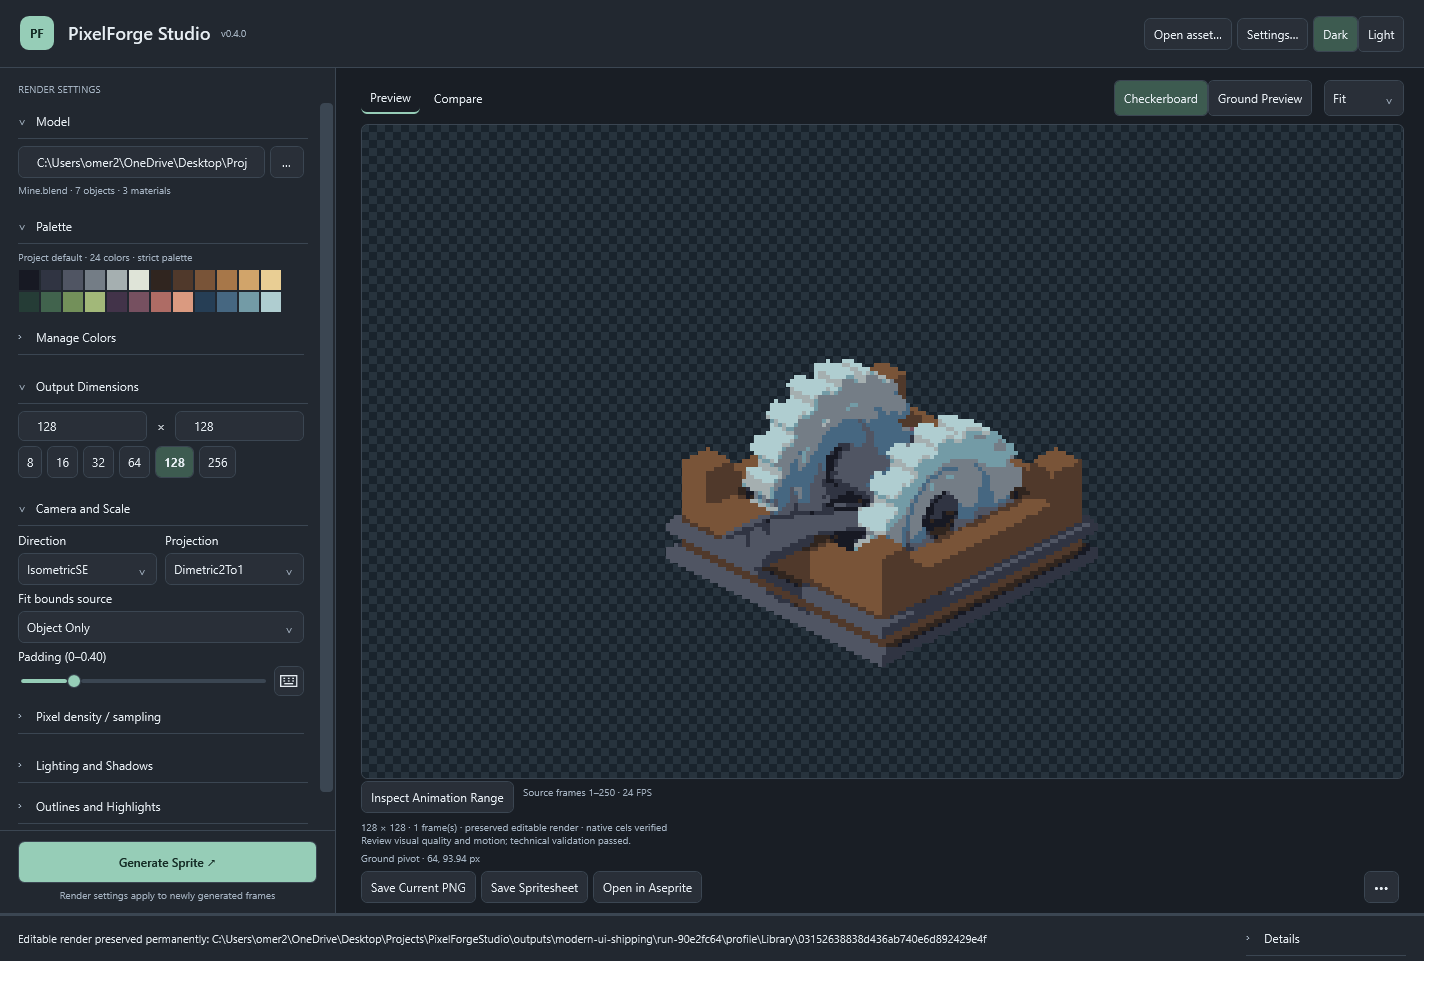
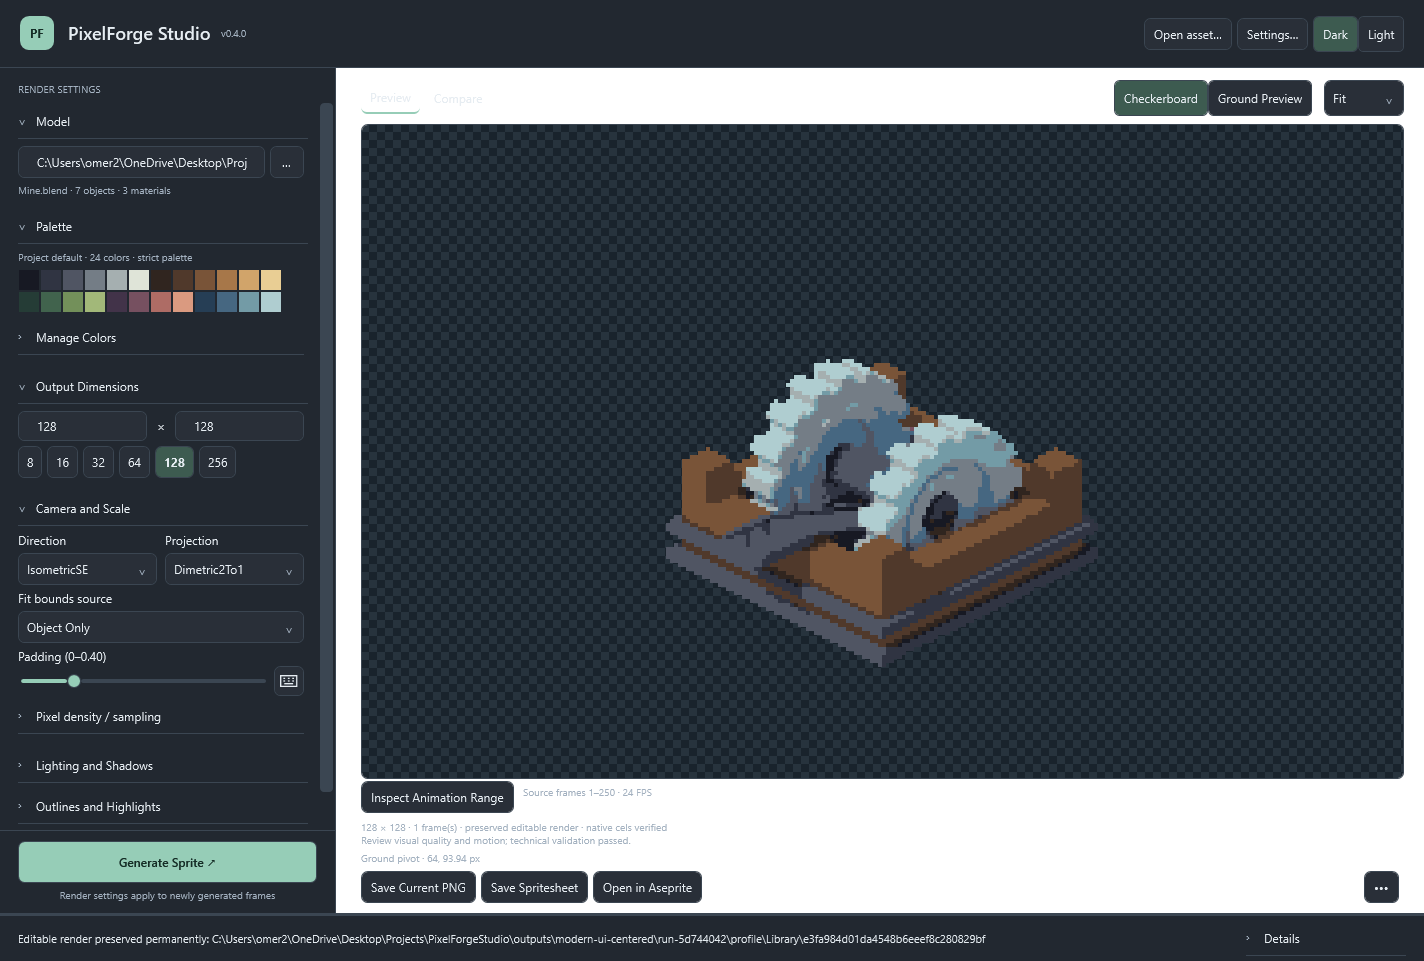
Keep the workspace fully visible at startup

Changed region(s): [[0.0, 0.0, 1.0, 1.0], [0.4635, 0.3434, 0.7725, 0.6868], [0.0927, 0.5307, 0.1854, 0.6243]]

diff --git a/src/PixelForge.Desktop/MainWindow.xaml b/src/PixelForge.Desktop/MainWindow.xaml
@@ -1,4 +1,4 @@
-<Window x:Class="PixelForge.Desktop.MainWindow" xmlns="http://schemas.microsoft.com/winfx/2006/xaml/presentation" xmlns:x="http://schemas.microsoft.com/winfx/2006/xaml" xmlns:local="clr-namespace:PixelForge.Desktop" Title="PixelForge Studio v0.4.0" Width="1440" Height="1000" MinWidth="1000" MinHeight="740" Background="{DynamicResource Window}" Foreground="{DynamicResource Text}" FontFamily="Segoe UI" UseLayoutRounding="True">
+<Window x:Class="PixelForge.Desktop.MainWindow" xmlns="http://schemas.microsoft.com/winfx/2006/xaml/presentation" xmlns:x="http://schemas.microsoft.com/winfx/2006/xaml" xmlns:local="clr-namespace:PixelForge.Desktop" Title="PixelForge Studio v0.4.0" WindowStartupLocation="CenterScreen" Width="1440" Height="1000" MinWidth="1000" MinHeight="740" Background="{DynamicResource Window}" Foreground="{DynamicResource Text}" FontFamily="Segoe UI" UseLayoutRounding="True">
   <Window.Resources>
     <BooleanToVisibilityConverter x:Key="VisibleWhen" />
   </Window.Resources>

diff --git a/src/PixelForge.Checks/ModernUiChecks.cs b/src/PixelForge.Checks/ModernUiChecks.cs
@@ -48,11 +48,18 @@ internal static class ModernUiChecks
         void Capture(string name)
         {
             window.UpdateLayout();
-            var image = new RenderTargetBitmap((int)window.ActualWidth, (int)window.ActualHeight, 96, 96, PixelFormats.Pbgra32);
-            image.Render(window); var encoder = new PngBitmapEncoder(); encoder.Frames.Add(BitmapFrame.Create(image));
+            var surface = (FrameworkElement)window.Content;
+            var dpi = VisualTreeHelper.GetDpi(surface);
+            var image = new RenderTargetBitmap((int)Math.Ceiling(surface.ActualWidth * dpi.DpiScaleX),
+                (int)Math.Ceiling(surface.ActualHeight * dpi.DpiScaleY), dpi.PixelsPerInchX, dpi.PixelsPerInchY, PixelFormats.Pbgra32);
+            image.Render(surface); var encoder = new PngBitmapEncoder(); encoder.Frames.Add(BitmapFrame.Create(image));
             using var stream = File.Create(Path.Combine(root, name + ".png")); encoder.Save(stream);
         }
         string Settings() => JsonSerializer.Serialize((AssetSettings)Call("ReadSettings")!);
+        await Layout();
+        var area = SystemParameters.WorkArea;
+        Check(window.Left >= area.Left && window.Top >= area.Top && window.Top + window.ActualHeight <= area.Bottom + 1,
+            "startup centers the complete workspace within the available work area");
         Check(Find<StackPanel>("SettingsPanel").Children.OfType<Expander>().Count() == 7, "all seven settings sections retained");
         Find<TextBox>("ModelPath").Text = model;
         var before = Settings();

diff --git a/src/PixelForge.Desktop/PresentationControls.cs b/src/PixelForge.Desktop/PresentationControls.cs
@@ -14,6 +14,9 @@ public partial class MainWindow
 
     private void InitializePresentation()
     {
+        // Avoid Windows' cascading placement putting the tall workspace off screen.
+        Width = Math.Max(MinWidth, Math.Min(Width, SystemParameters.WorkArea.Width));
+        Height = Math.Max(MinHeight, Math.Min(Height, SystemParameters.WorkArea.Height));
         SetChecker();
         DpiChanged += (_, _) => UpdateZoom();
         foreach (var section in SettingsSections())

diff --git a/docs/release/v0.4.0-verification.md b/docs/release/v0.4.0-verification.md
@@ -7,7 +7,7 @@ Verified locally on Windows x64 using .NET SDK 10.0.404, installed Blender 5.3.0
 | Suite | Checks |
 |---|---:|
 | `./Build.ps1 -Check` base regression | 25 |
-| Actual WPF UI / static and 12-frame animation workflow | 36 |
+| Actual WPF UI / static and 12-frame animation workflow | 37 |
 | Existing session, palette, confirmation and directory workflow | 43 |
 | Existing native timing/manual-edit preservation | 69 |
 | Zero-padding, native compositing and fixed warning viewport | 43 |
@@ -30,3 +30,5 @@ Technical validity is not artistic approval. Unsupported Blender shader/instance
 The self-contained `artifacts/current/PixelForge Studio.exe` was launched with an isolated profile. Its actual UI reopened the saved mine without Blender, switched Dark to Light, saved PNG and spritesheet PNG/JSON through native dialogs, opened the native document in Aseprite, and dragged the read-only comparison divider from 50% to approximately 78%. Exported frame/sheet file hashes match the saved source PNGs exactly. PNG and sheet dialog directories persisted independently, and Light theme and model settings survived an executable restart. The native document was inspected in Aseprite and closed without edits.
 
 `./Build.ps1 -Check -Publish` succeeded. One restricted-network attempt reported an unavailable NuGet audit endpoint; the final build with normal network access completed without warnings. No third-party application dependencies were added. A clean-machine installation and physical high-DPI display remain untested.
+
+Startup placement is centered and capped to the available work area. The ZIP smoke test exposed Windows' off-screen cascading placement; a dedicated actual-WPF bounds check now verifies that the complete workspace is visible at startup.

diff --git a/CHANGELOG.md b/CHANGELOG.md
@@ -9,6 +9,7 @@ Meaningful development changes, newest first. Historical entries follow saved ve
 - Moved playback FPS, duration, timeline and transport together; secondary exports are available from the preview's ••• menu. Settings load/save is in the header.
 - Retained palette editing, strict outline-color approval, exact numeric values, render history/favorites, saved-frame comparison and all rendering/export services.
 - Kept warnings in a stable scrollable area and made preview zoom use integer device pixels at fractional Windows display scaling.
+- Centered startup placement and capped initial window dimensions to the available desktop work area.
 - Normal development now uses master. No branch creation, automatic push or release publication.
 
 ## v0.3.4 — Workflow and UI cleanup
